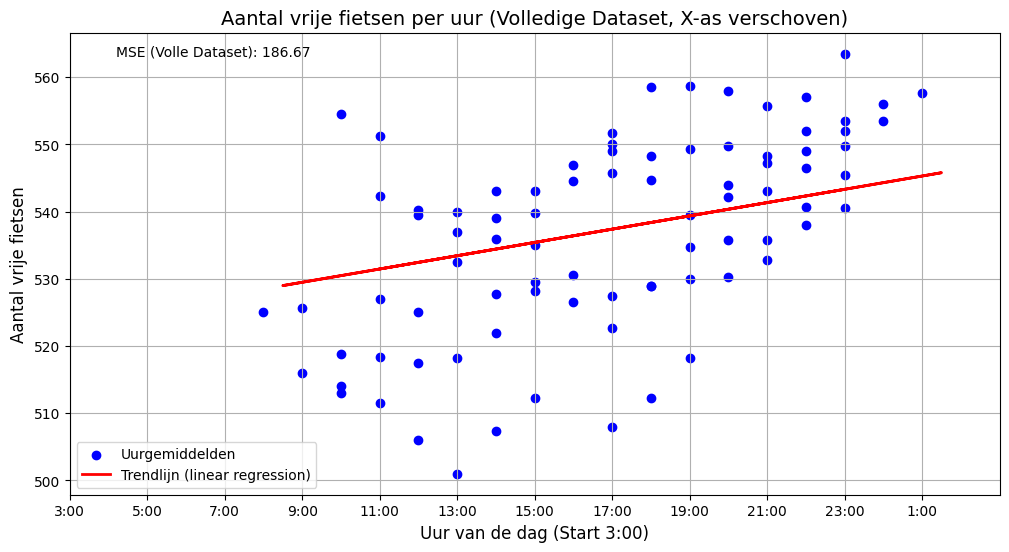
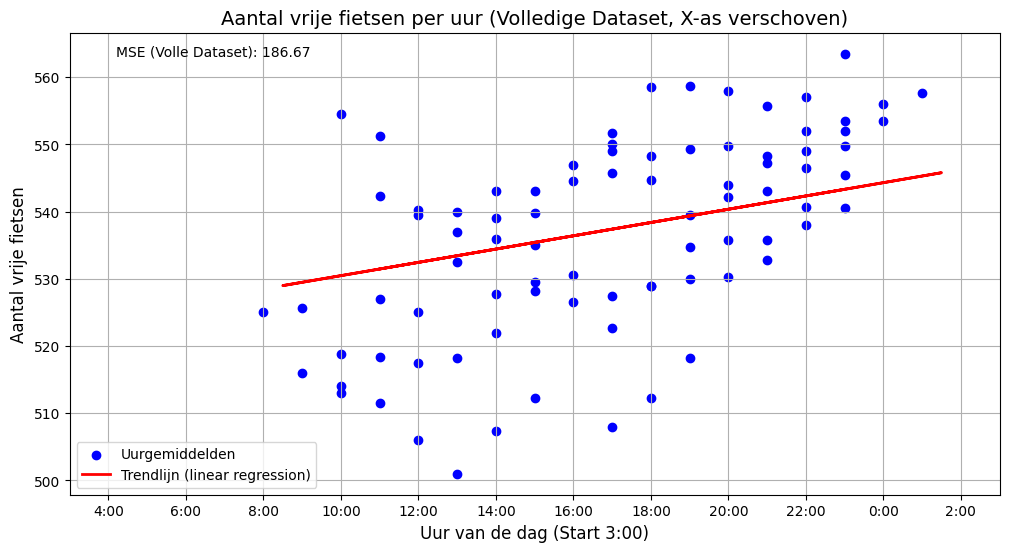
Automatische update 2025-11-19 23:11:38

Changed region(s): [[0.0614, 0.8931, 0.9524, 0.9547]]

diff --git a/scripts/plot_bikes_vs_time.py b/scripts/plot_bikes_vs_time.py
@@ -57,9 +57,9 @@ plt.ylabel('Aantal vrije fietsen', fontsize=12)
 plt.title('Aantal vrije fietsen per uur (Volledige Dataset, X-as verschoven)', fontsize=14)
 
 
-# --- AANGEPASTE CODE VOOR 2-UURLIJKS TICK LABELS ---
-# Bepaal posities om de 2 uur, startend bij 3u
-tick_positions = np.arange(3, 27, 2) 
+# --- AANGEPASTE CODE VOOR 2-UURLIJKS EVEN TICK LABELS ---
+# Bepaal posities om de 2 uur, startend bij 4u
+tick_positions = np.arange(4, 28, 2) 
 # Labels tonen HH:00 formaat (zorgt dat 24 = 0, 26 = 2, etc.)
 tick_labels = [f"{int(t % 24)}:00" for t in tick_positions] 
 plt.xticks(tick_positions, tick_labels) # Geen rotatie meer nodig

diff --git a/reports/report.md b/reports/report.md
@@ -1,6 +1,6 @@
 # Data Workflow Rapport
 
-**Gegenereerd op:** 2025-11-19 23:10:18.872617
+**Gegenereerd op:** 2025-11-19 23:11:38.250047
 
 ## Grafiek: Vrije fietsen vs Temperatuur
 ![Fietsen vs Temp](fiets_vs_temp.png)
